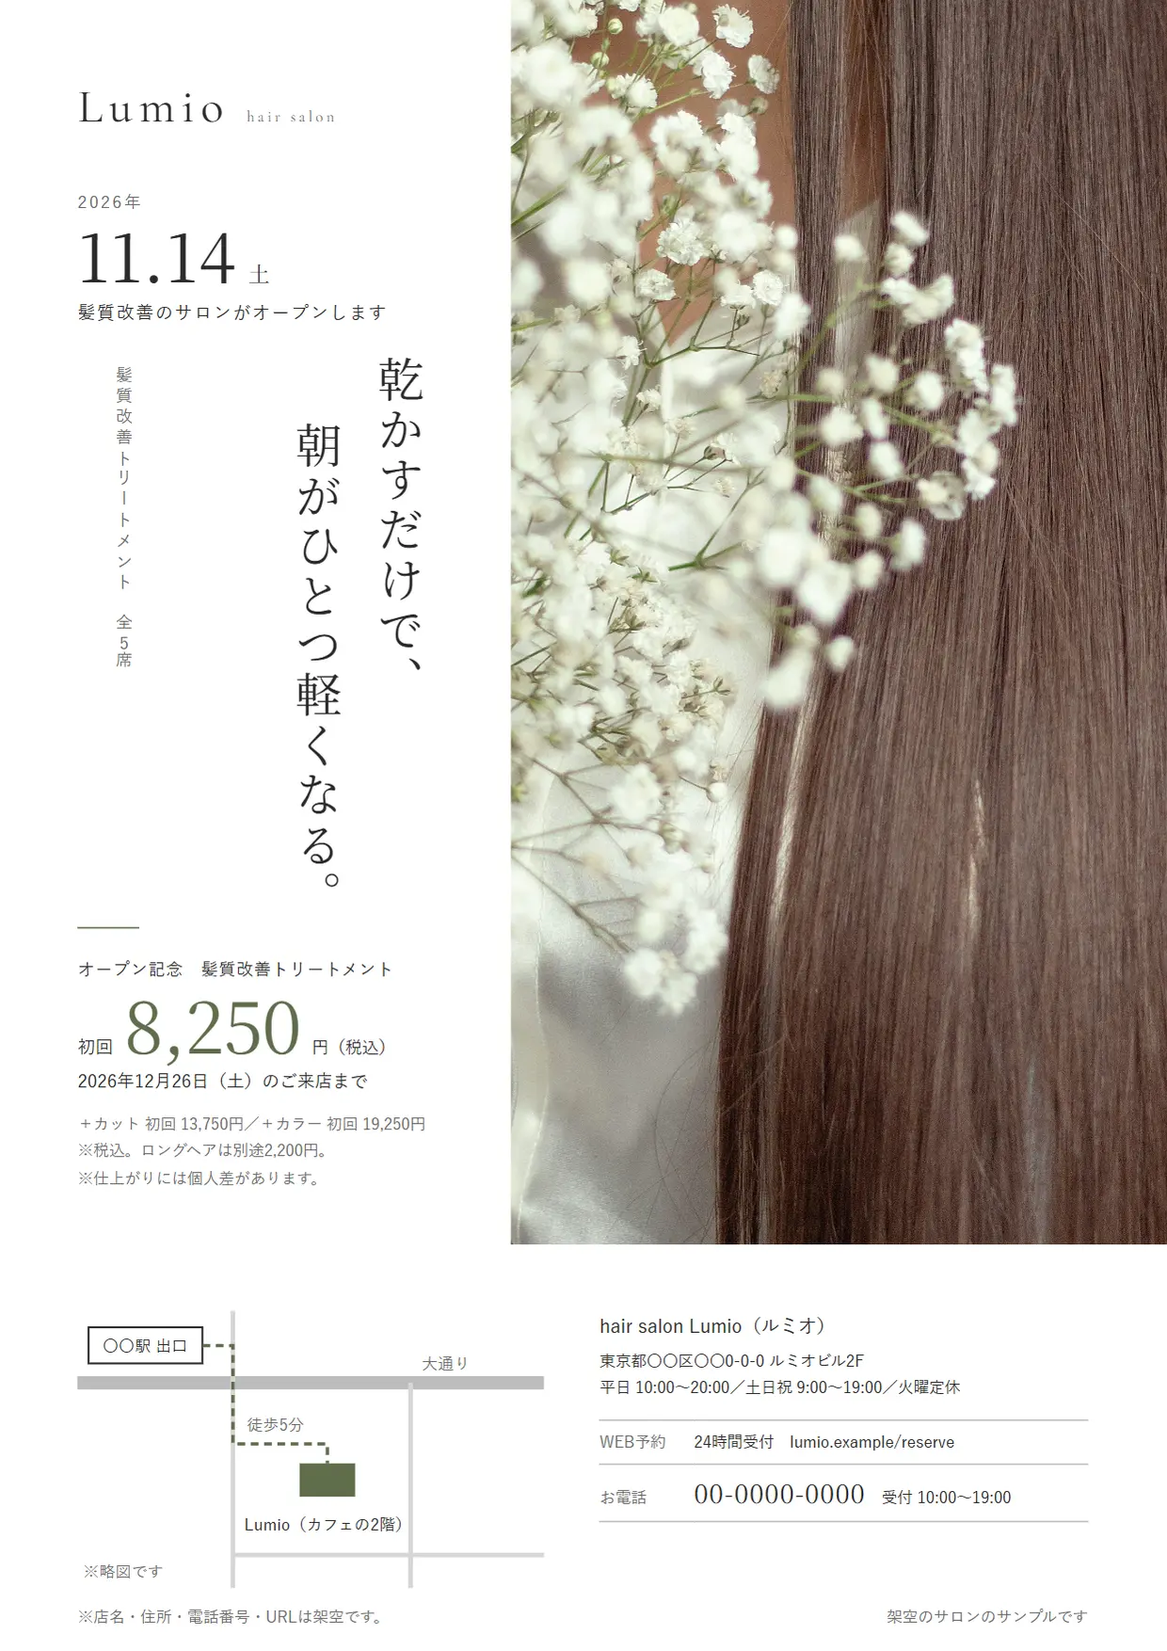
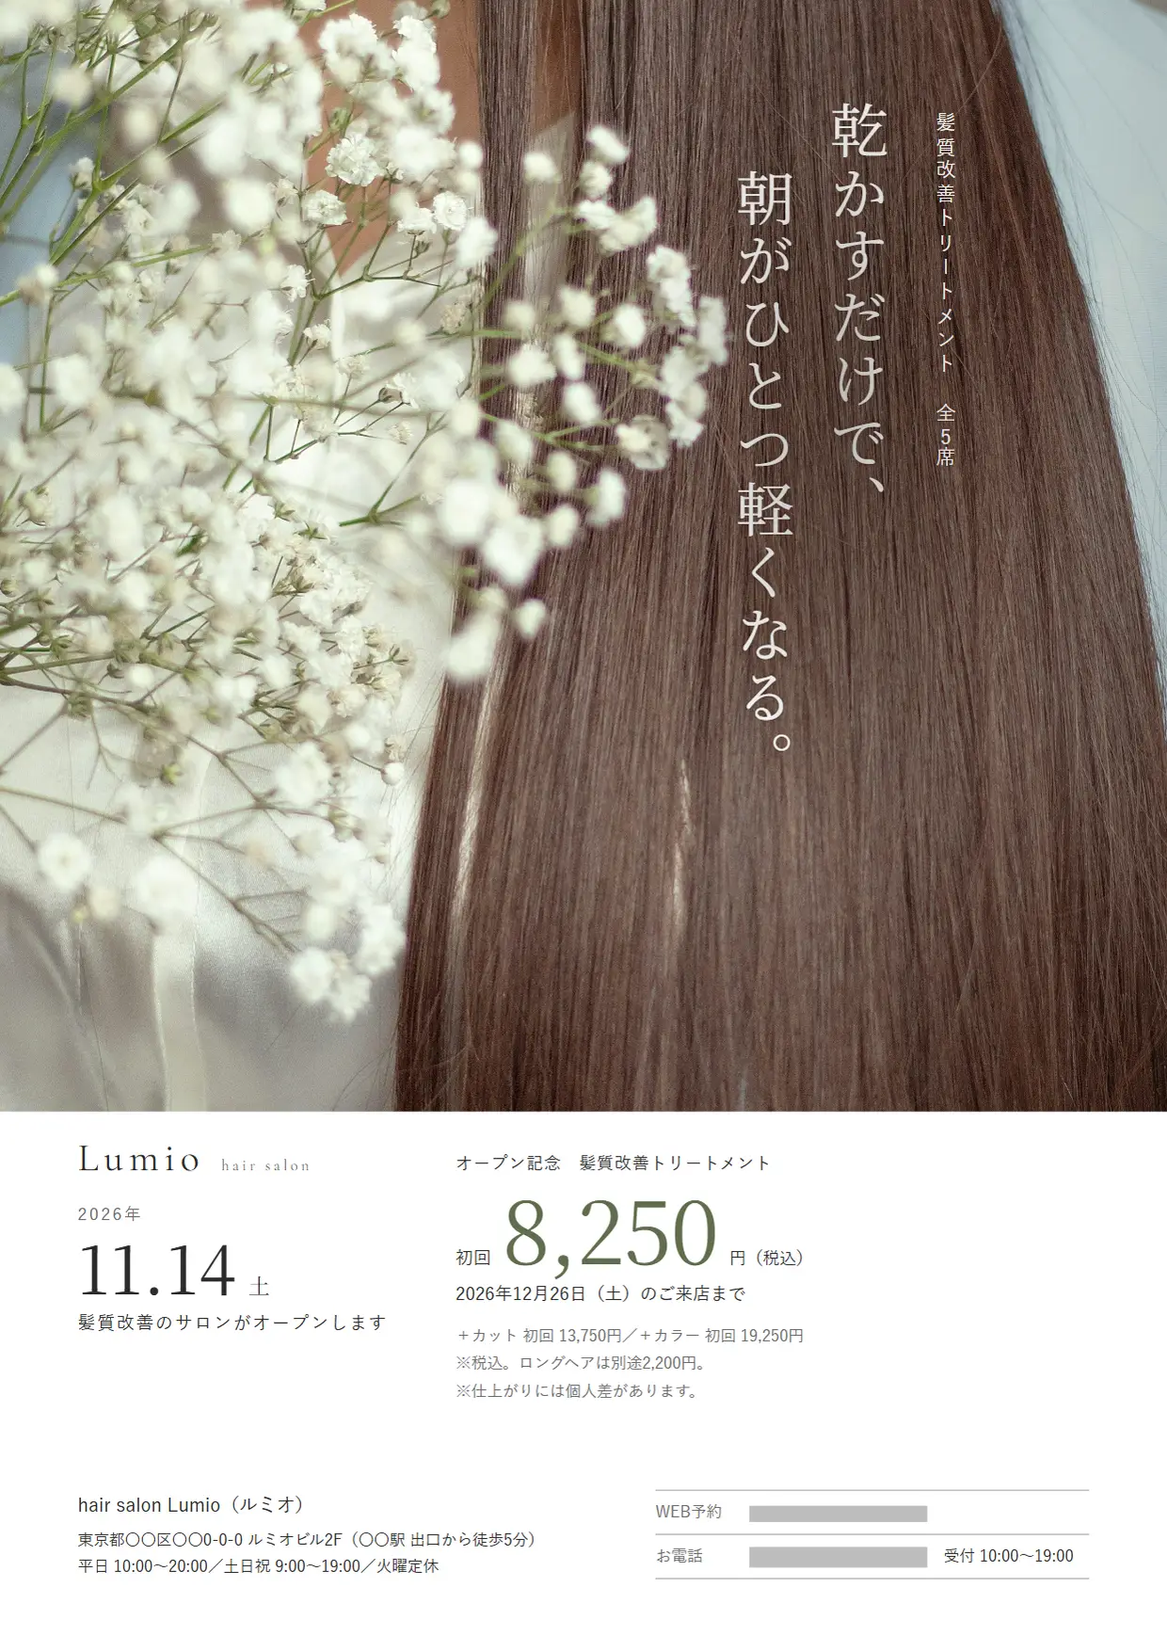
作品集・Lumio解説ページ：写真の使い回しと半分割を直した版に差し替え（案B）

diff --git a/works/lumio/index.html b/works/lumio/index.html
@@ -85,7 +85,7 @@
         <p class="case-hero__lead">「乾かすだけで、朝がひとつ軽くなる。」というひとつの言葉で、<br class="pc-only">LPから、チラシ・バナー・リッチメニュー・予約サイト用の画像・Instagramまでまとめて制作しました。</p>
         <div class="lumio-hero">
           <figure style="--r: 1.6"><img src="images/hero-pc.webp" width="1000" height="625" alt="Lumio のLPのファーストビューを、パソコンで表示したところ。左に白い余白と見出し、右にかすみ草とロングヘアの写真" fetchpriority="high"><figcaption>PC</figcaption></figure>
-          <figure style="--r: 0.707"><img src="images/flyer.webp" width="800" height="1131" alt="A4縦のオープン告知チラシ" fetchpriority="high"><figcaption>チラシ</figcaption></figure>
+          <figure style="--r: 0.707"><img src="images/flyer.webp" width="800" height="1132" alt="A4縦のオープン告知チラシ" fetchpriority="high"><figcaption>チラシ</figcaption></figure>
           <figure style="--r: 0.462"><img src="images/hero-sp.webp" width="400" height="866" alt="Lumio のLPを、スマホで表示したところ" fetchpriority="high"><figcaption>スマホ</figcaption></figure>
         </div>
         <dl class="case-meta">
@@ -182,20 +182,20 @@
         <div class="heading">
           <p class="heading__en">Promotion</p>
           <h2 class="heading__ja">販促物も、同じ言葉と色で</h2>
-          <p class="heading__lead">LPと同じ言葉・写真・色で、お店が使う販促物をまとめて作りました。<br class="pc-only">どれを見ても同じお店だとわかることを大切にしています。画像を押すと、大きく表示します。</p>
+          <p class="heading__lead">LPと同じ言葉・色で、お店が使う販促物をまとめて作りました。写真は5枚を使い分け、並べても単調にならないようにしています。<br class="pc-only">どれを見ても同じお店だとわかることを大切にしています。画像を押すと、大きく表示します。</p>
         </div>
         <div class="kit">
 
           <article class="kit__item">
             <div class="kit__media kit__media--flyer lumio-plain">
-              <a href="images/flyer-large.webp" target="_blank" rel="noopener"><img src="images/flyer.webp" width="800" height="1131" alt="A4縦のオープン告知チラシ。右にかすみ草とロングヘアの写真、左の白にオープン日と縦書きの言葉、初回の値段。下に略図と店舗情報、WEB予約と電話" loading="lazy"></a>
+              <a href="images/flyer-large.webp" target="_blank" rel="noopener"><img src="images/flyer.webp" width="800" height="1132" alt="A4縦のオープン告知チラシ。上の3分の2にかすみ草とロングヘアの写真、髪の上に白い縦書きの言葉。下の白にオープン日、初回の値段、店舗情報、WEB予約と電話" loading="lazy"></a>
             </div>
             <div>
               <h3>オープン告知のチラシ</h3>
               <p class="kit__size">A4縦・片面／塗り足し3mmとトンボ付きのPDF</p>
               <dl class="kit__cia">
                 <div><dt>課題</dt><dd>オープン前のお店を、ポスティングや手配りで知ってもらう</dd></div>
-                <div><dt>意図</dt><dd>オープン日と、お店の静かな雰囲気を1枚で伝える。LPと同じ写真を右側に大きく置き、言葉は縦書きにしました</dd></div>
+                <div><dt>意図</dt><dd>オープン日と、お店の静かな雰囲気を1枚で伝える。LPと同じ写真を紙面の上3分の2に大きく置き、言葉は髪の暗いところに白い縦書きで重ねました</dd></div>
                 <div><dt>工夫</dt><dd>オープン時のチラシは、まだ通常の値段で営業した実績がない時期のものなので、「通常○円→初回○円」の二重の表示はせず、オープン記念の値段と期限だけを載せました（バナーも同じです）。文字は紙の端から9mm以上内側、いちばん小さい文字も8pt以上です</dd></div>
               </dl>
             </div>
@@ -204,7 +204,7 @@
           <article class="kit__item">
             <div class="kit__banners lumio-plain">
               <figure class="kit__banner kit__media">
-                <a href="images/banner-1-sq-large.webp" target="_blank" rel="noopener"><img src="images/banner-1-sq.webp" width="800" height="800" alt="バナー案1（正方形）：右に写真、左の白に「期間限定 初回キャンペーン」と初回8,250円、期限" loading="lazy"></a>
+                <a href="images/banner-1-sq-large.webp" target="_blank" rel="noopener"><img src="images/banner-1-sq.webp" width="800" height="800" alt="バナー案1（正方形）：上にくしでまっすぐな髪をとかす手元の写真、下の白に「期間限定 初回キャンペーン」と大きな初回8,250円、期限" loading="lazy"></a>
                 <a href="images/banner-1-wide-large.webp" target="_blank" rel="noopener"><img src="images/banner-1-wide.webp" width="800" height="419" alt="バナー案1（横長）" loading="lazy"></a>
                 <figcaption>案1　初回の案内で伝える</figcaption>
               </figure>
@@ -225,14 +225,14 @@
               <dl class="kit__cia">
                 <div><dt>課題</dt><dd>広告は、どの言葉がいちばん反応されるかを、出してみるまで決めにくい</dd></div>
                 <div><dt>意図</dt><dd>実際の広告では複数の案を出して反応を比べることを前提に、「初回の値段」「髪の悩み」「朝の時間」と入口の違う3案を作りました</dd></div>
-                <div><dt>工夫</dt><dd>言葉だけでなく、構図も変えています。案1は写真と白い余白、案2は写真を全面に、案3は文字を主役にして写真を小さく。値段・期限・ロングヘアの追加料金・個人差の注意書きは、3案とも同じにそろえました</dd></div>
+                <div><dt>工夫</dt><dd>言葉だけでなく、構図も変えています。案1は髪の寄りの写真の下に値段を大きく、案2は写真を全面に、案3は文字を主役にして写真を小さく。写真も3案で別のものにしました。値段・期限・ロングヘアの追加料金・個人差の注意書きは、3案とも同じにそろえました</dd></div>
               </dl>
             </div>
           </article>
 
           <article class="kit__item">
             <div class="kit__media lumio-plain">
-              <a href="images/richmenu-large.webp" target="_blank" rel="noopener"><img src="images/richmenu.webp" width="800" height="540" alt="LINEのリッチメニュー。6つのマスのうち、左上は髪の写真に「初回のご予約」、右下は店内の写真に「店内・アクセス」。ほかは白地に「メニュー・料金」「髪質改善とは」「よくある質問」「お電話」" loading="lazy"></a>
+              <a href="images/richmenu-large.webp" target="_blank" rel="noopener"><img src="images/richmenu.webp" width="800" height="540" alt="LINEのリッチメニュー。6つのマスのうち、左上は窓辺に立つ人の後ろ姿の写真に「初回のご予約」、右下は店内の写真に「店内・アクセス」。ほかは白地に「メニュー・料金」「髪質改善とは」「よくある質問」「お電話」" loading="lazy"></a>
             </div>
             <div>
               <h3>LINEのリッチメニュー</h3>
@@ -248,7 +248,7 @@
           <article class="kit__item">
             <div class="kit__media kit__media--two lumio-plain" style="--a: 1.333fr; --b: 1fr">
               <a href="images/booking-salon-large.webp" target="_blank" rel="noopener"><img src="images/booking-salon.webp" width="800" height="600" alt="予約サイト用の店内の画像：白黒の店内の写真と、縦書きの「全5席の、小さなサロンです。」" loading="lazy"></a>
-              <a href="images/booking-coupon-large.webp" target="_blank" rel="noopener"><img src="images/booking-coupon.webp" width="800" height="800" alt="予約サイト用のクーポン画像：カルテのような細い罫線に、初回8,250円と対象・所要時間・内容" loading="lazy"></a>
+              <a href="images/booking-coupon-large.webp" target="_blank" rel="noopener"><img src="images/booking-coupon.webp" width="800" height="800" alt="予約サイト用のクーポン画像：写真を使わず、カルテのような細い罫線に、初回8,250円と対象・所要時間・内容・ロングヘアの料金" loading="lazy"></a>
             </div>
             <div>
               <h3>予約サイトに載せる画像</h3>
@@ -256,14 +256,14 @@
               <dl class="kit__cia">
                 <div><dt>課題</dt><dd>予約サイトでは、近くのたくさんのサロンと並べて見比べられる</dd></div>
                 <div><dt>意図</dt><dd>並んだときにも、LPと同じ静かな雰囲気で「同じお店」とわかるようにする</dd></div>
-                <div><dt>工夫</dt><dd>クーポンは、対象・所要時間・内容を髪質診断のカルテの罫線で整理しました。ブログのサムネイルは、LPのよくある質問から題材を取っています。サイトの名前やロゴは入れていません</dd></div>
+                <div><dt>工夫</dt><dd>クーポンは写真を外し、対象・所要時間・内容・ロングヘアの料金を髪質診断のカルテの罫線で整理しました。ブログのサムネイルは、LPのよくある質問から題材を取っています。サイトの名前やロゴは入れていません</dd></div>
               </dl>
             </div>
           </article>
 
           <article class="kit__item">
             <div class="kit__media kit__media--three lumio-plain">
-              <a href="images/ig-1-large.webp" target="_blank" rel="noopener"><img src="images/ig-1.webp" width="800" height="1000" alt="Instagram投稿1枚目：左に写真、右の白に縦書きの「乾かすだけで、朝がひとつ軽くなる。」と初回の値段" loading="lazy"></a>
+              <a href="images/ig-1-large.webp" target="_blank" rel="noopener"><img src="images/ig-1.webp" width="800" height="1000" alt="Instagram投稿1枚目：明るい窓辺に立つ人の後ろ姿の写真に、白い縦書きの「乾かすだけで、朝がひとつ軽くなる。」。下の白に初回の値段" loading="lazy"></a>
               <a href="images/ig-2-large.webp" target="_blank" rel="noopener"><img src="images/ig-2.webp" width="800" height="1000" alt="Instagram投稿2枚目：一般的なトリートメントとの違いを、縦線1本で左右に分けた表" loading="lazy"></a>
               <a href="images/ig-3-large.webp" target="_blank" rel="noopener"><img src="images/ig-3.webp" width="800" height="1000" alt="Instagram投稿3枚目：カルテの罫線に、診断・補修・定着の3つの工程" loading="lazy"></a>
             </div>
@@ -273,7 +273,7 @@
               <dl class="kit__cia">
                 <div><dt>課題</dt><dd>フィードで流れていく中で、何のお店かを3枚で伝える</dd></div>
                 <div><dt>意図</dt><dd>1枚目で言葉、2枚目で違い、3枚目で施術の流れ、と順に知ってもらう</dd></div>
-                <div><dt>工夫</dt><dd>3枚の組み方を変えました（写真と縦書き／縦線1本で比べる表／カルテの罫線）。文章はLPのものをそのまま使い、言うことがずれないようにしています</dd></div>
+                <div><dt>工夫</dt><dd>3枚の組み方を変えました（写真の上に縦書き／縦線1本で比べる表／カルテの罫線）。文章はLPのものをそのまま使い、言うことがずれないようにしています</dd></div>
               </dl>
             </div>
           </article>

diff --git a/gallery/index.html b/gallery/index.html
@@ -536,7 +536,7 @@
           <dt>使ったもの</dt><dd>HTML / CSS / JavaScript（チラシや画像もHTML/CSSで組んで書き出し）</dd>
         </dl>
         <p class="work__body">髪質改善トリートメントを、平日の夜や土日に通う働く女性に向けて「乾かすだけで、朝がひとつ軽くなる。」と言い切りました。白と余白を広くとり、色は主役の写真のかすみ草の茎の緑を、予約ボタンなど要所だけに使っています。作ったお客様の声やビフォーアフターは載せていません。</p>
-        <p class="work__body">チラシ・バナー・メニュー画像・予約サイト用の画像・Instagramも、LPと同じ言葉・写真・色でそろえ、どれを見ても同じお店だとわかるようにしました。バナーは「初回の案内」「髪の悩み」「朝の時間」と伝え方を変えた3案で、実際の広告では複数の案を出して反応を比べられるようにしています。</p>
+        <p class="work__body">チラシ・バナー・メニュー画像・予約サイト用の画像・Instagramも、LPと同じ言葉と色でそろえ、どれを見ても同じお店だとわかるようにしました。写真は5枚を使い分け、並べても単調にならないようにしています。バナーは「初回の案内」「髪の悩み」「朝の時間」と伝え方を変えた3案で、実際の広告では複数の案を出して反応を比べられるようにしています。</p>
         <p class="work__note">写真は素材サイト（Unsplash）のものです。</p>
       </div>
       <div class="work__media">
@@ -550,21 +550,21 @@
             <figcaption>LP（スマホ）</figcaption>
           </figure>
         </div>
-        <div class="pair" style="--a: 0.707fr; --b: 1.483fr">
+        <div class="pair" style="--a: 1fr; --b: 1.333fr">
           <figure class="shot">
-            <a class="shot__link" href="images/lumio-flyer.webp"><img src="images/lumio-flyer-600.webp" width="600" height="849" alt="A4縦のオープン告知チラシ。右にかすみ草とロングヘアの写真、左の白に縦書きの「乾かすだけで、朝がひとつ軽くなる。」とオープン日、下に略図と店舗情報" loading="lazy"></a>
-            <figcaption>オープン告知のチラシ（A4縦・塗り足しとトンボ付きのPDF）</figcaption>
+            <a class="shot__link" href="images/lumio-booking-coupon.webp"><img src="images/lumio-booking-coupon-400.webp" width="400" height="400" alt="予約サイト用のクーポン画像：写真を使わず、髪質診断のカルテのような細い罫線に、初回8,250円と対象・所要時間・内容・ロングヘアの追加の値段" loading="lazy"></a>
+            <figcaption>予約サイトに載せるクーポン画像。条件が読めることを優先して写真を外し、髪質診断のカルテの罫線で組みました。</figcaption>
           </figure>
           <figure class="shot">
-            <a class="shot__link" href="images/lumio-richmenu.webp"><img src="images/lumio-richmenu-800.webp" width="800" height="540" alt="6つに区切ったメニュー画像。左上は髪の写真に「初回のご予約」、右下は店内の写真に「店内・アクセス」、ほかの4つは白地に「メニュー」「髪質改善とは」「よくある質問」「お電話」" loading="lazy"></a>
-            <figcaption>トーク画面の下に出すメニュー画像（6分割）。スマホで小さく表示されても読める文字の大きさにし、写真のマスと白いマスで、押してほしい場所の重さを変えました。</figcaption>
+            <a class="shot__link" href="images/lumio-booking-salon.webp"><img src="images/lumio-booking-salon-600.webp" width="600" height="450" alt="予約サイト用の店内の画像：白黒の店内の写真と、縦書きの「全5席の、小さなサロンです。」" loading="lazy"></a>
+            <figcaption>予約サイトに載せる店内の画像（4:3）</figcaption>
           </figure>
         </div>
         <div class="banners">
           <figure class="shot">
             <div class="banner__imgs">
-              <a class="shot__link" href="images/lumio-banner-1-sq.webp"><img src="images/lumio-banner-1-sq-400.webp" width="400" height="400" alt="バナー案1（正方形）：右に写真、左の白に「期間限定 初回キャンペーン」と初回8,250円、期限の日付" loading="lazy"></a>
-              <a class="shot__link" href="images/lumio-banner-1-wide.webp"><img src="images/lumio-banner-1-wide-600.webp" width="600" height="314" alt="バナー案1（横長）：右に写真、左の白に初回8,250円と期限の日付" loading="lazy"></a>
+              <a class="shot__link" href="images/lumio-banner-1-sq.webp"><img src="images/lumio-banner-1-sq-400.webp" width="400" height="400" alt="バナー案1（正方形）：上に木のくしでまっすぐな髪をとかす手元の写真、下の白に「期間限定 初回キャンペーン」と大きな初回8,250円、期限の日付" loading="lazy"></a>
+              <a class="shot__link" href="images/lumio-banner-1-wide.webp"><img src="images/lumio-banner-1-wide-600.webp" width="600" height="314" alt="バナー案1（横長）：上にくしで髪をとかす手元の写真、下の白に大きな初回8,250円と期限の日付" loading="lazy"></a>
             </div>
             <figcaption>Webバナー 案1：初回の案内で伝える</figcaption>
           </figure>
@@ -583,19 +583,19 @@
             <figcaption>案3：朝の時間で伝える（3案とも 1080×1080 と 1200×628）</figcaption>
           </figure>
         </div>
-        <div class="pair" style="--a: 1.333fr; --b: 1fr">
+        <div class="pair" style="--a: 1.483fr; --b: 0.707fr">
           <figure class="shot">
-            <a class="shot__link" href="images/lumio-booking-salon.webp"><img src="images/lumio-booking-salon-600.webp" width="600" height="450" alt="予約サイト用の店内の画像：白黒の店内の写真と、縦書きの「全5席の、小さなサロンです。」" loading="lazy"></a>
-            <figcaption>予約サイトに載せる店内の画像（4:3）</figcaption>
+            <a class="shot__link" href="images/lumio-richmenu.webp"><img src="images/lumio-richmenu-800.webp" width="800" height="540" alt="6つに区切ったメニュー画像。左上は窓辺に立つ人の後ろ姿の写真に「初回のご予約」、右下は店内の写真に「店内・アクセス」、ほかの4つは白地に「メニュー」「髪質改善とは」「よくある質問」「お電話」" loading="lazy"></a>
+            <figcaption>トーク画面の下に出すメニュー画像（6分割）。スマホで小さく表示されても読める文字の大きさにし、写真のマスと白いマスで、押してほしい場所の重さを変えました。</figcaption>
           </figure>
           <figure class="shot">
-            <a class="shot__link" href="images/lumio-booking-coupon.webp"><img src="images/lumio-booking-coupon-400.webp" width="400" height="400" alt="予約サイト用のクーポン画像：髪質診断のカルテのような細い罫線に、対象・所要時間・内容" loading="lazy"></a>
-            <figcaption>予約サイトに載せるクーポン画像。髪質診断のカルテの罫線で組みました。</figcaption>
+            <a class="shot__link" href="images/lumio-flyer.webp"><img src="images/lumio-flyer-600.webp" width="600" height="849" alt="A4縦のオープン告知チラシ。上の3分の2にかすみ草とロングヘアの写真、髪の上に白い縦書きの「乾かすだけで、朝がひとつ軽くなる。」、下の白にオープン日・初回8,250円・店舗情報" loading="lazy"></a>
+            <figcaption>オープン告知のチラシ（A4縦・塗り足しとトンボ付きのPDF）</figcaption>
           </figure>
         </div>
         <div class="extras extras--three">
           <figure class="shot">
-            <a class="shot__link" href="images/lumio-ig-1.webp"><img src="images/lumio-ig-1-400.webp" width="400" height="500" alt="Instagram投稿1枚目：左に写真、右の白に縦書きの「乾かすだけで、朝がひとつ軽くなる。」" loading="lazy"></a>
+            <a class="shot__link" href="images/lumio-ig-1.webp"><img src="images/lumio-ig-1-400.webp" width="400" height="500" alt="Instagram投稿1枚目：明るい窓辺に立つ人の後ろ姿の写真に、白い縦書きの「乾かすだけで、朝がひとつ軽くなる。」。下の白に初回8,250円" loading="lazy"></a>
             <figcaption>Instagram投稿 1</figcaption>
           </figure>
           <figure class="shot">
